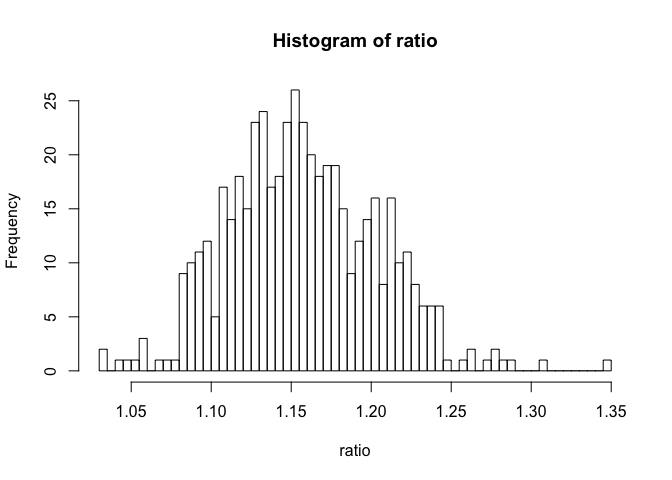
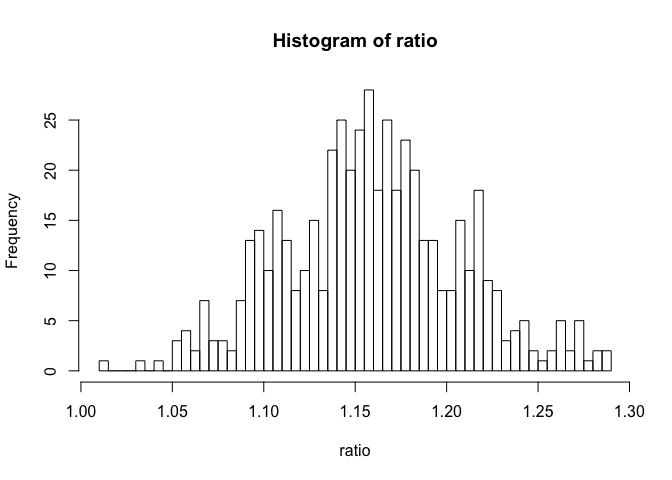
bullet points look like trash. maybe this helps?

diff --git a/4.md b/4.md
@@ -14,19 +14,25 @@
 Transformations / vectorization
 ===============================
 
-Most of the chapter is deicated to this: - Vectorize input data to make
-model more interpretable - When predictors are shifted to from `var` to
-`var-mean(var)`, intercepts give expected values accross the entire
-population. - Scale variables so that the "how do things change when a
-single predictor is modified" inprepretation is easy to read. Eg.
-consider kilometers vs meters as units, etc. - (Not discussed in text)
-Regression is scale-invariant when there is no regularization. Have to
-be careful about scaling when using regularization, though it seems
-regularization is more for predictive rather than interpretation
-use-case. - Principal component line vs. regression line: PCA appears to
-fit better at first glance. However, the PCA provides a biased estimate
-of `E(y|x)`. It will underestimate low values and overestimate high
-values.
+Most of the chapter is deicated to this:
+
+-   Vectorize input data to make model more interpretable
+
+-   When predictors are shifted to from `var` to `var-mean(var)`,
+    intercepts give expected values accross the entire population.
+-   Scale variables so that the "how do things change when a single
+    predictor is modified" inprepretation is easy to read. Eg. consider
+    kilometers vs meters as units, etc.
+-   (Not discussed in text) Regression is scale-invariant when there is
+    no regularization. Have to be careful about scaling when using
+    regularization, though it seems regularization is more for
+    predictive rather than interpretation use-case.
+-   Principal component line vs. regression line: PCA appears to fit
+    better at first glance. However, the PCA provides a biased estimate
+    of `E(y|x)`. It will underestimate low values and overestimate high
+    values.
+
+<!-- -->
 
     n_points <- 500
     df <- data.frame(x <- rnorm(n_points))
@@ -42,7 +48,7 @@ values.
     ## 
     ## Coefficients:
     ## (Intercept)            x  
-    ##   -0.002553     0.539666
+    ##    -0.09052      0.48951
 
     df$pred <- predict.lm(lm_fit, df)
 
@@ -51,27 +57,35 @@ values.
       geom_line(aes(x, x), df, size=1) +
       geom_line(aes(x, pred), df, size=1)
 
-![](4_files/figure-markdown_strict/unnamed-chunk-2-1.png) - How to
-interpret models after log transformed output variables. - More on
-transformations: - loglog transform of output. Is this useful? - square
-root transformation -- maybe useful if predicting a squared quantity
-like Euclidean distance? - Using continuous rather than discrete: The
-book markets not replacing continuous variables with discrete ones
-because of information loss around 'borderline' data. - However we can
-create non-linear transformation by doing "ordered factor" transforms of
-variables
+![](4_files/figure-markdown_strict/unnamed-chunk-2-1.png)
+
+-   How to interpret models after log transformed output variables.
+-   More on transformations:
+
+-   loglog transform of output. Is this useful?
+-   square root transformation -- maybe useful if predicting a squared
+    quantity like Euclidean distance?
+-   Using continuous rather than discrete: The book markets not
+    replacing continuous variables with discrete ones because of
+    information loss around 'borderline' data.
+-   However we can create non-linear transformation by doing "ordered
+    factor" transforms of variables
 
 Building models for prediction
 ==============================
 
-General principals: - include everything you think might reasonably
-contribute to outcome - consider combining predictors into "total
-scores" rather than including individual ones. - Consider including
-interactions for inputs which have large effects - Strategy for deciding
-if a variable should be excluded: - if not statistically significant and
-has expected sign, generally fine to keep. While not helping, probably
-not hurting model fit. - if not significant and doesn't have expected
-sign, consider removing. - If significant and has *unexpected* sign,
-think hard about it. Perhaps there are interactions not being considered
-involving this var. - if significant and expected sign, keep in in there
-:)
+General principals:
+
+-   include everything you think might reasonably contribute to outcome
+-   consider combining predictors into "total scores" rather than
+    including individual ones.
+-   Consider including interactions for inputs which have large effects
+-   Strategy for deciding if a variable should be excluded:
+-   if not statistically significant and has expected sign, generally
+    fine to keep. While not helping, probably not hurting model fit.
+-   if not significant and doesn't have expected sign, consider
+    removing.
+-   If significant and has *unexpected* sign, think hard about it.
+    Perhaps there are interactions not being considered involving this
+    var.
+-   if significant and expected sign, keep in in there :)

diff --git a/2.md b/2.md
@@ -32,12 +32,12 @@
     int_95 <- quantile(ratio, c(.025, .975))
     mu_ratio
 
-    ## [1] 1.15758
+    ## [1] 1.159235
 
     int_95
 
     ##     2.5%    97.5% 
-    ## 1.081332 1.243391
+    ## 1.065425 1.264423
 
 **p.27**: Question 3
 
